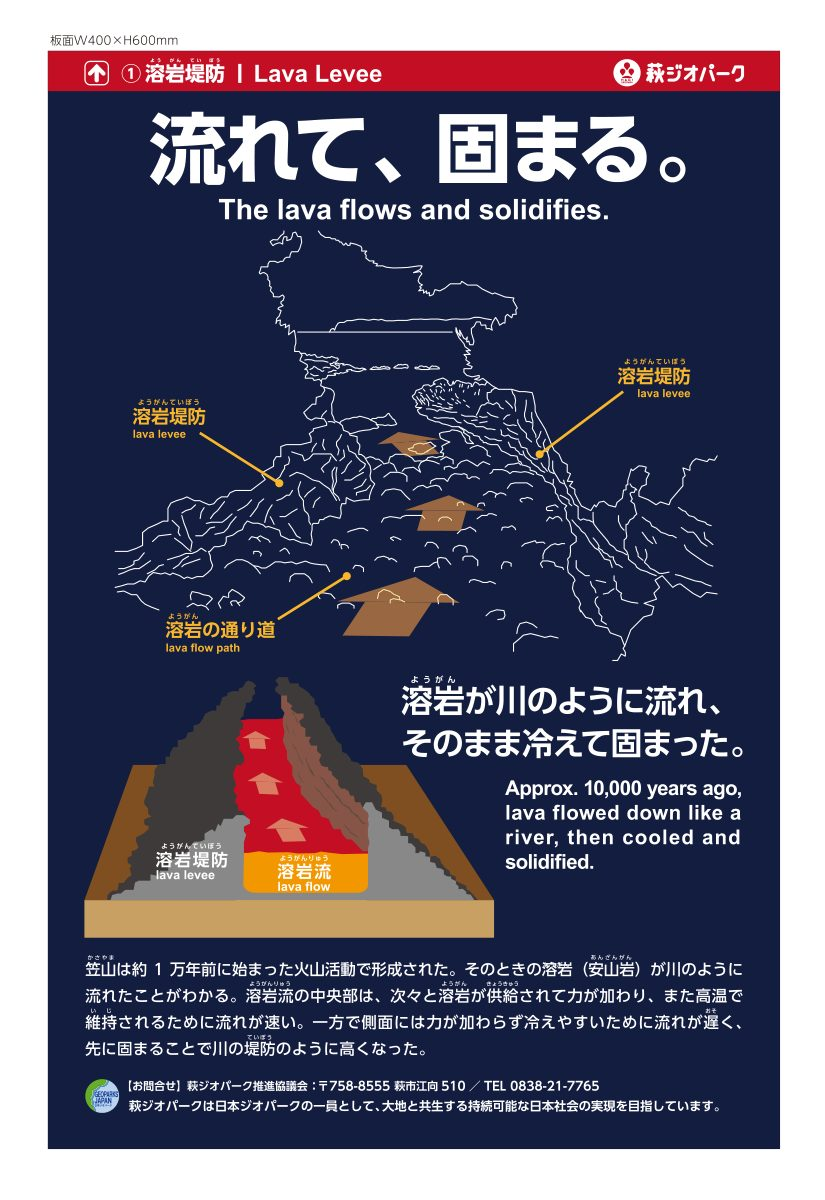
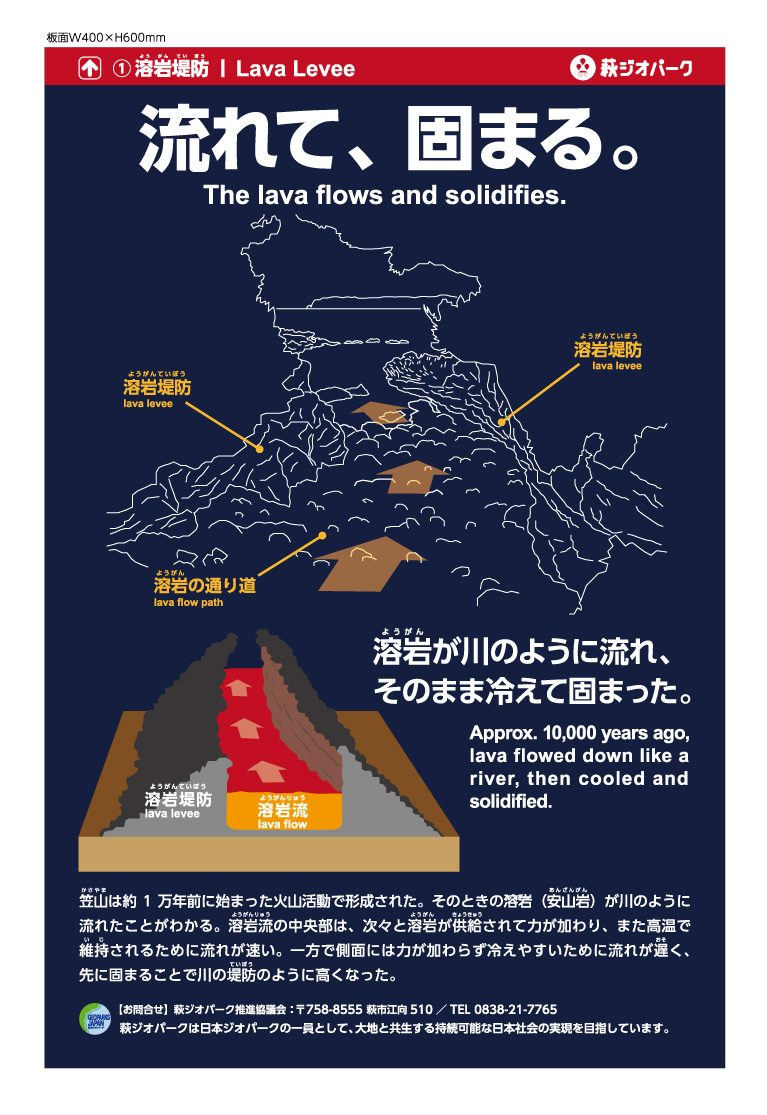
溶岩堤防・ようこそ佐々並の看板の画像を差し替え。データベースの「地図で見る」は種類と位置も渡し、同じ名前の看板・見どころと取り違えずにその場所へ

diff --git a/js/db.js b/js/db.js
@@ -37,7 +37,7 @@ const st = { rows:[], kind:"", view: ls.get("hagiDbView", "card"), status:null, 
   // 地図の img/sites にある写真の一覧（スプレッドシートの「写真」が空でも、名前と同じ写真があれば出す）。
   // サイトの表と並行して取りに行く（このファイルの終わりまで読み込んでから＝下の関数・定数が使えるように）
   fetch("data/panel_pdfs.json?p=11").then(r=> r.json()).then(p=>{ st.pdfs = p; if (location.hash) openFromHash(); }).catch(()=>{});   // 解説板の原稿のPDF（名前 → ファイル）
-  const photos = fetch("data/site_photos.json?p=11").then(r=> r.json())   // 写真を足したら一覧を作り直し、?p= を上げる（地図の PHOTOV と同じ番号）
+  const photos = fetch("data/site_photos.json?p=12").then(r=> r.json())   // 写真を足したら一覧を作り直し、?p= を上げる（地図の PHOTOV と同じ番号）
     .then(p=>{ st.photos = new Set(p.files || []); st.photoV = p.v ? "?p=" + p.v : ""; }).catch(()=>{});
   const data = fetch(DB_URL + "?action=data").then(r=> r.json());
   await photos;
@@ -204,7 +204,7 @@ function openFromHash(){
   if (r["見出し"]) h += `<p class="lead">${esc(r["見出し"])}</p>`;
   if (ph) h += `<img class="dphoto" src="${ph}" alt="" onerror="this.remove()">`;
   const acts = [];
-  if (r["地図に出す"] === "Y" && r.種類 !== "生態サイト") acts.push(`<a href="./?site=${encodeURIComponent(r["名前"])}${st.status ? "&all=1" : ""}">${icon("map")}地図で見る</a>`);
+  if (r["地図に出す"] === "Y" && r.種類 !== "生態サイト") acts.push(`<a href="./?site=${encodeURIComponent(r["名前"])}&cat=${encodeURIComponent(r.種類)}${hasLL ? `&ll=${r["緯度"]},${r["経度"]}` : ""}${st.status ? "&all=1" : ""}">${icon("map")}地図で見る</a>`);   // 種類と位置も渡す（同じ名前のものと取り違えない）
   if (hasLL && r.種類 !== "生態サイト"){
     const dest = (r["経路緯度"] && r["経路経度"]) ? `${r["経路緯度"]},${r["経路経度"]}` : `${r["緯度"]},${r["経度"]}`;
     acts.push(`<a href="https://www.google.com/maps/dir/?api=1&destination=${dest}" target="_blank" rel="noopener">${icon("route")}経路</a>`);

diff --git a/js/map.js b/js/map.js
@@ -339,7 +339,7 @@ function pointPopup(o){
 function sanitizeName(s){ return String(s).replace(/[\\/:*?"<>|]/g, "_").trim(); }
 function photoFile(name){ return sanitizeName(name) + ".jpg"; }
 // 写真を差し替えたら PHOTOV を上げる（サービスワーカーが古い写真を出し続けないように）
-const PHOTOV = "?p=11";
+const PHOTOV = "?p=12";
 function photoSrc(name){ return "img/sites/" + encodeURIComponent(photoFile(name)) + PHOTOV; }
 
 // ディープリンクURL（?site=名前 / ?area=id）＝看板QRの貼り先
@@ -477,7 +477,12 @@ function openDeepLink(){
   if (tourId && areaById[tourId]){ startTour(tourId); return; }   // ?tour=ryu ＝解説から始める（講演・授業用）
   if (areaId && areaById[areaId]){ enterArea(areaId); return; }
   if (siteName){
-    const o = allMarkers.find(x=> x.name === siteName);
+    // &cat=種類&ll=緯度,経度 があれば、その種類の、その位置にいちばん近い同じ名前の印（同じ名前の看板・見どころがあるため）
+    const cat = params.get("cat"), ll = (params.get("ll") || "").split(",").map(Number);
+    const cands = allMarkers.filter(x=> x.name === siteName && (!cat || x.cat === cat));
+    const o = ll.length === 2 && !ll.some(isNaN)
+      ? cands.sort((p, q)=> p.marker.getLatLng().distanceTo(ll) - q.marker.getLatLng().distanceTo(ll))[0]
+      : cands[0] || allMarkers.find(x=> x.name === siteName);
     if (o){
       const z = Math.min(map.getMaxZoom(), Math.max(15, Math.ceil(o.def.minZoom)));
       const show = ()=>{ refresh(); openSite(o, { pan:false }); };

diff --git a/index.html b/index.html
@@ -24,7 +24,7 @@
   <link rel="stylesheet" href="https://fonts.googleapis.com/css2?family=Noto+Sans+JP:wght@700;900&display=swap" />
   <!-- 食と大地の判子の筆文字（使う字だけ） -->
   <link rel="stylesheet" href="https://fonts.googleapis.com/css2?family=Yuji+Syuku&display=swap&text=%E4%B8%B9%E5%A4%A7%E5%B8%83%E5%B9%B2%E6%9E%97%E6%9E%9C%E6%9F%91%E6%A0%B9%E6%A1%83%E6%AA%8E%E7%83%8F%E7%85%AE%E7%89%9B%E7%8E%89%E7%B1%B3%E8%85%90%E8%8B%A5%E8%8C%84%E8%91%B1%E8%92%B2%E8%95%83%E8%95%8E%E8%B1%86%E8%B3%8A%E9%85%92%E9%89%BE%E9%9B%B2%E9%AF%B5%E9%BA%A6" />
-  <link rel="stylesheet" href="css/style.css?v=451" />
+  <link rel="stylesheet" href="css/style.css?v=452" />
 </head>
 <body>
   <header id="appbar">
@@ -70,11 +70,11 @@
   <div id="map"></div>
 
   <script src="js/qrcode.min.js?v=58"></script>
-  <script src="js/map.js?v=451"></script>
-  <script src="js/tour.js?v=451"></script>
-  <script src="js/food.js?v=451"></script>
-  <script src="js/patrol.js?v=451"></script>
-  <script src="js/links.js?v=451"></script>
+  <script src="js/map.js?v=452"></script>
+  <script src="js/tour.js?v=452"></script>
+  <script src="js/food.js?v=452"></script>
+  <script src="js/patrol.js?v=452"></script>
+  <script src="js/links.js?v=452"></script>
   <script>
     if ("serviceWorker" in navigator) {
       window.addEventListener("load", () => navigator.serviceWorker.register("sw.js").catch(()=>{}));

diff --git a/db.html b/db.html
@@ -53,6 +53,6 @@
     </div>
   </div>
 
-  <script src="js/db.js?v=25"></script>
+  <script src="js/db.js?v=26"></script>
 </body>
 </html>
